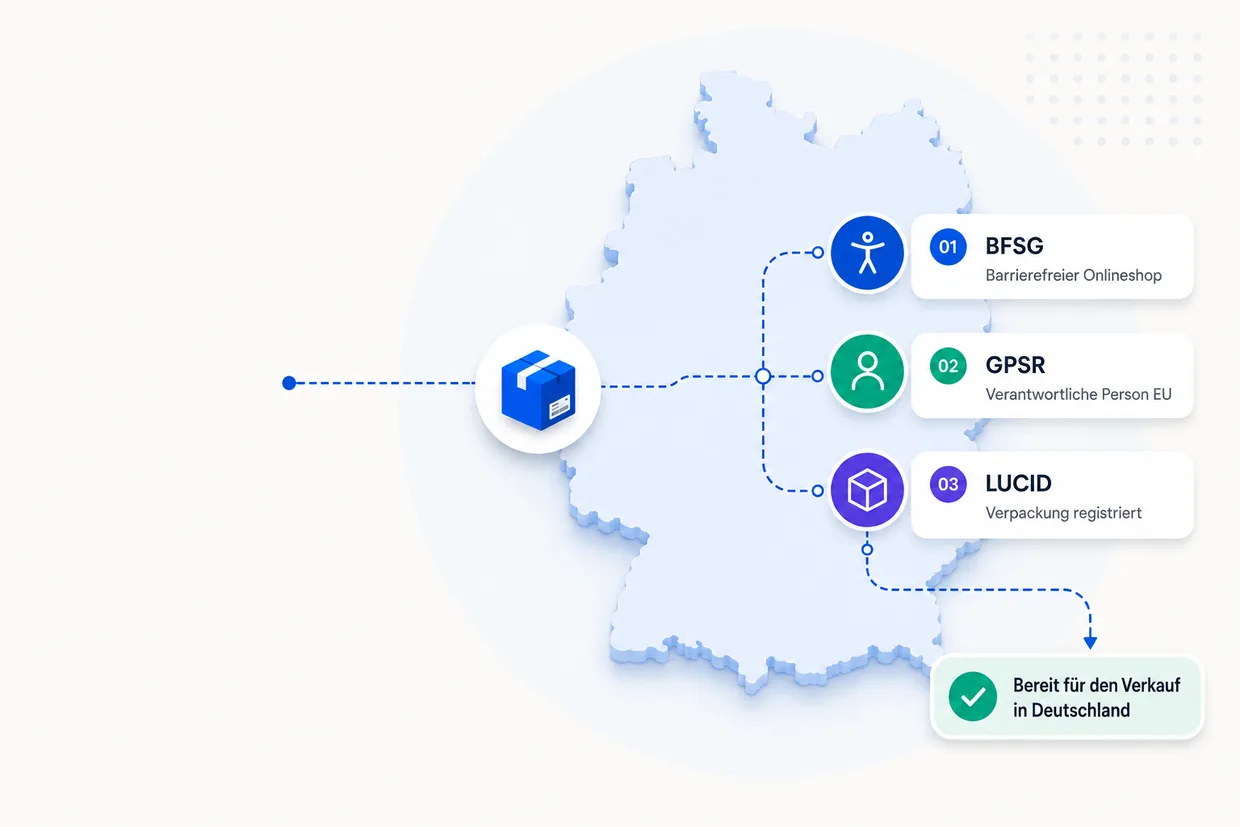
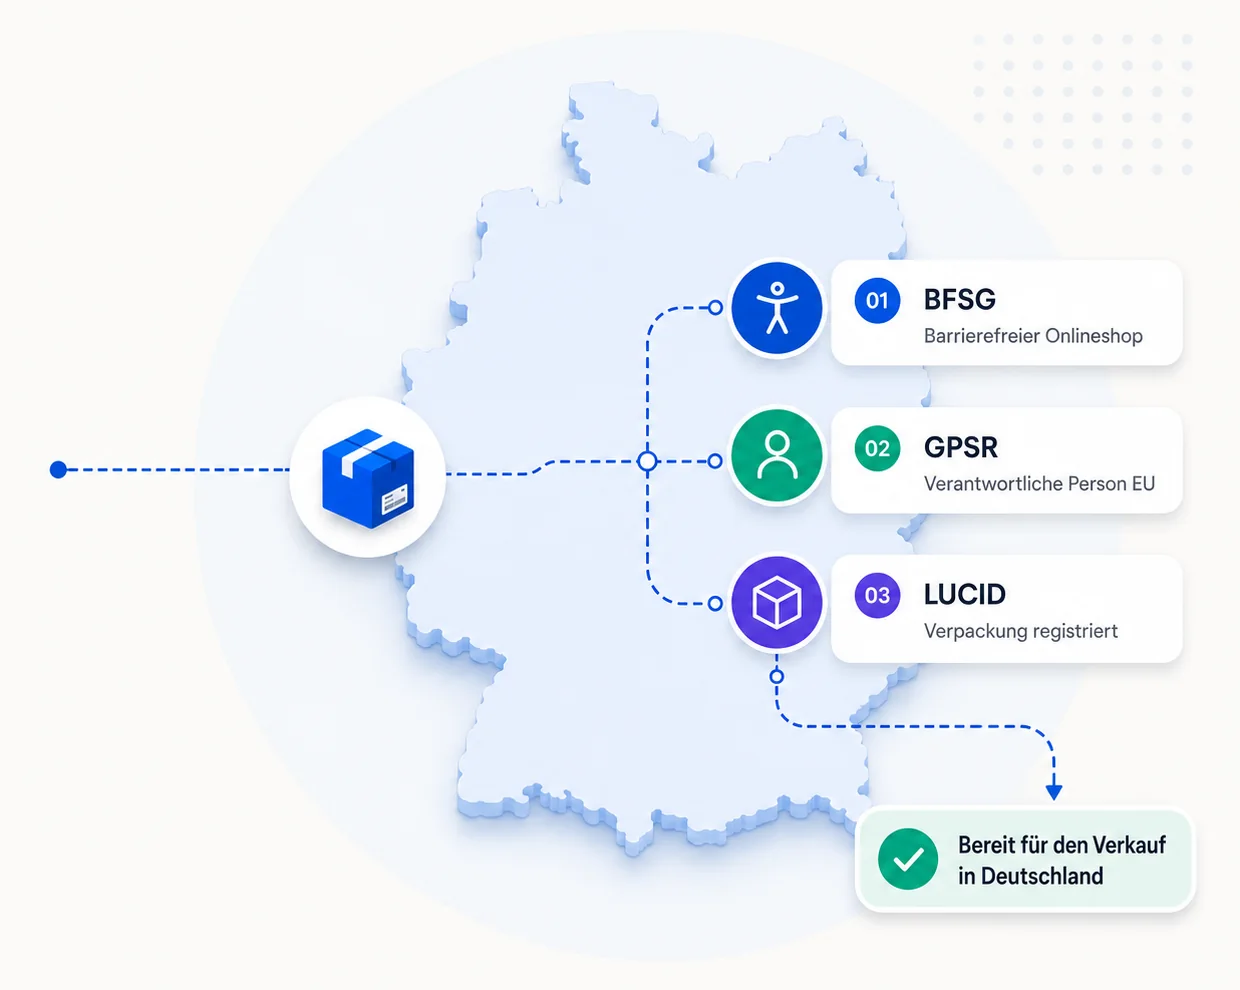
added hero page on the top

diff --git a/web/src/styles/global.css b/web/src/styles/global.css
@@ -183,7 +183,7 @@ section { scroll-margin-top: 2rem; }
 .hero { background: linear-gradient(180deg, var(--paper), var(--white)); border-bottom: 1px solid var(--line); }
 .hero .wrap { padding-block: clamp(2.5rem, 6vw, 4.5rem); }
 .hero-grid { display: grid; gap: clamp(2rem, 5vw, 3.5rem); align-items: center; }
-@media (min-width: 62rem) { .hero-grid { grid-template-columns: minmax(0, 1.05fr) minmax(0, 1fr); } }
+@media (min-width: 62rem) { .hero-grid { grid-template-columns: minmax(0, 1fr) minmax(0, 1.12fr); } }
 
 .eyebrow {
   display: inline-block; margin: 0 0 1.15rem;
@@ -272,6 +272,9 @@ section { scroll-margin-top: 2rem; }
 .cards { display: grid; gap: 1.25rem; list-style: none; margin: 0; padding: 0; }
 @media (min-width: 48rem) { .cards { grid-template-columns: repeat(3, 1fr); } }
 .cards > li {
+  /* Room above the card when arrived at from a hero checkpoint link, so it
+     does not land flush against the top of the viewport. */
+  scroll-margin-top: 1.5rem;
   max-width: none; display: flex; flex-direction: column; gap: .5rem;
   padding: 1.5rem; border: 1px solid var(--line); border-radius: var(--radius-lg);
   background: var(--white); box-shadow: var(--shadow-sm);
